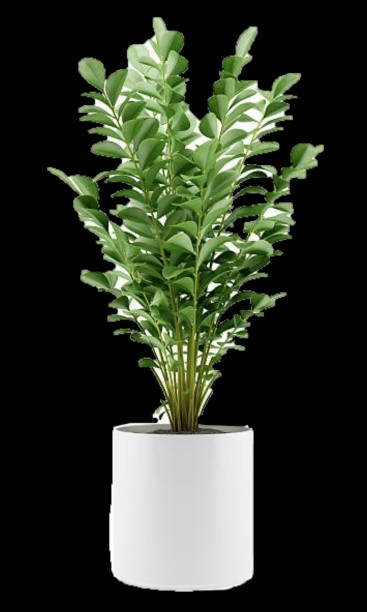
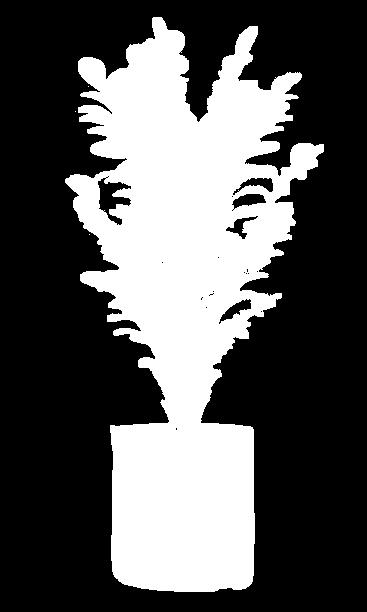
reformation

diff --git a/transform_to_mask.py b/transform_to_mask.py
@@ -1,0 +1,11 @@
+import PIL
+from PIL import Image
+import numpy as np
+
+
+mask_path = "../dataset/mask_before_transform/pot3.jpg"
+mask = Image.open(mask_path)
+thresh = 11
+fn = lambda x : 255 if x > thresh else 0
+r = mask.convert('L').point(fn, mode='1')
+r.save('mask.jpg')
